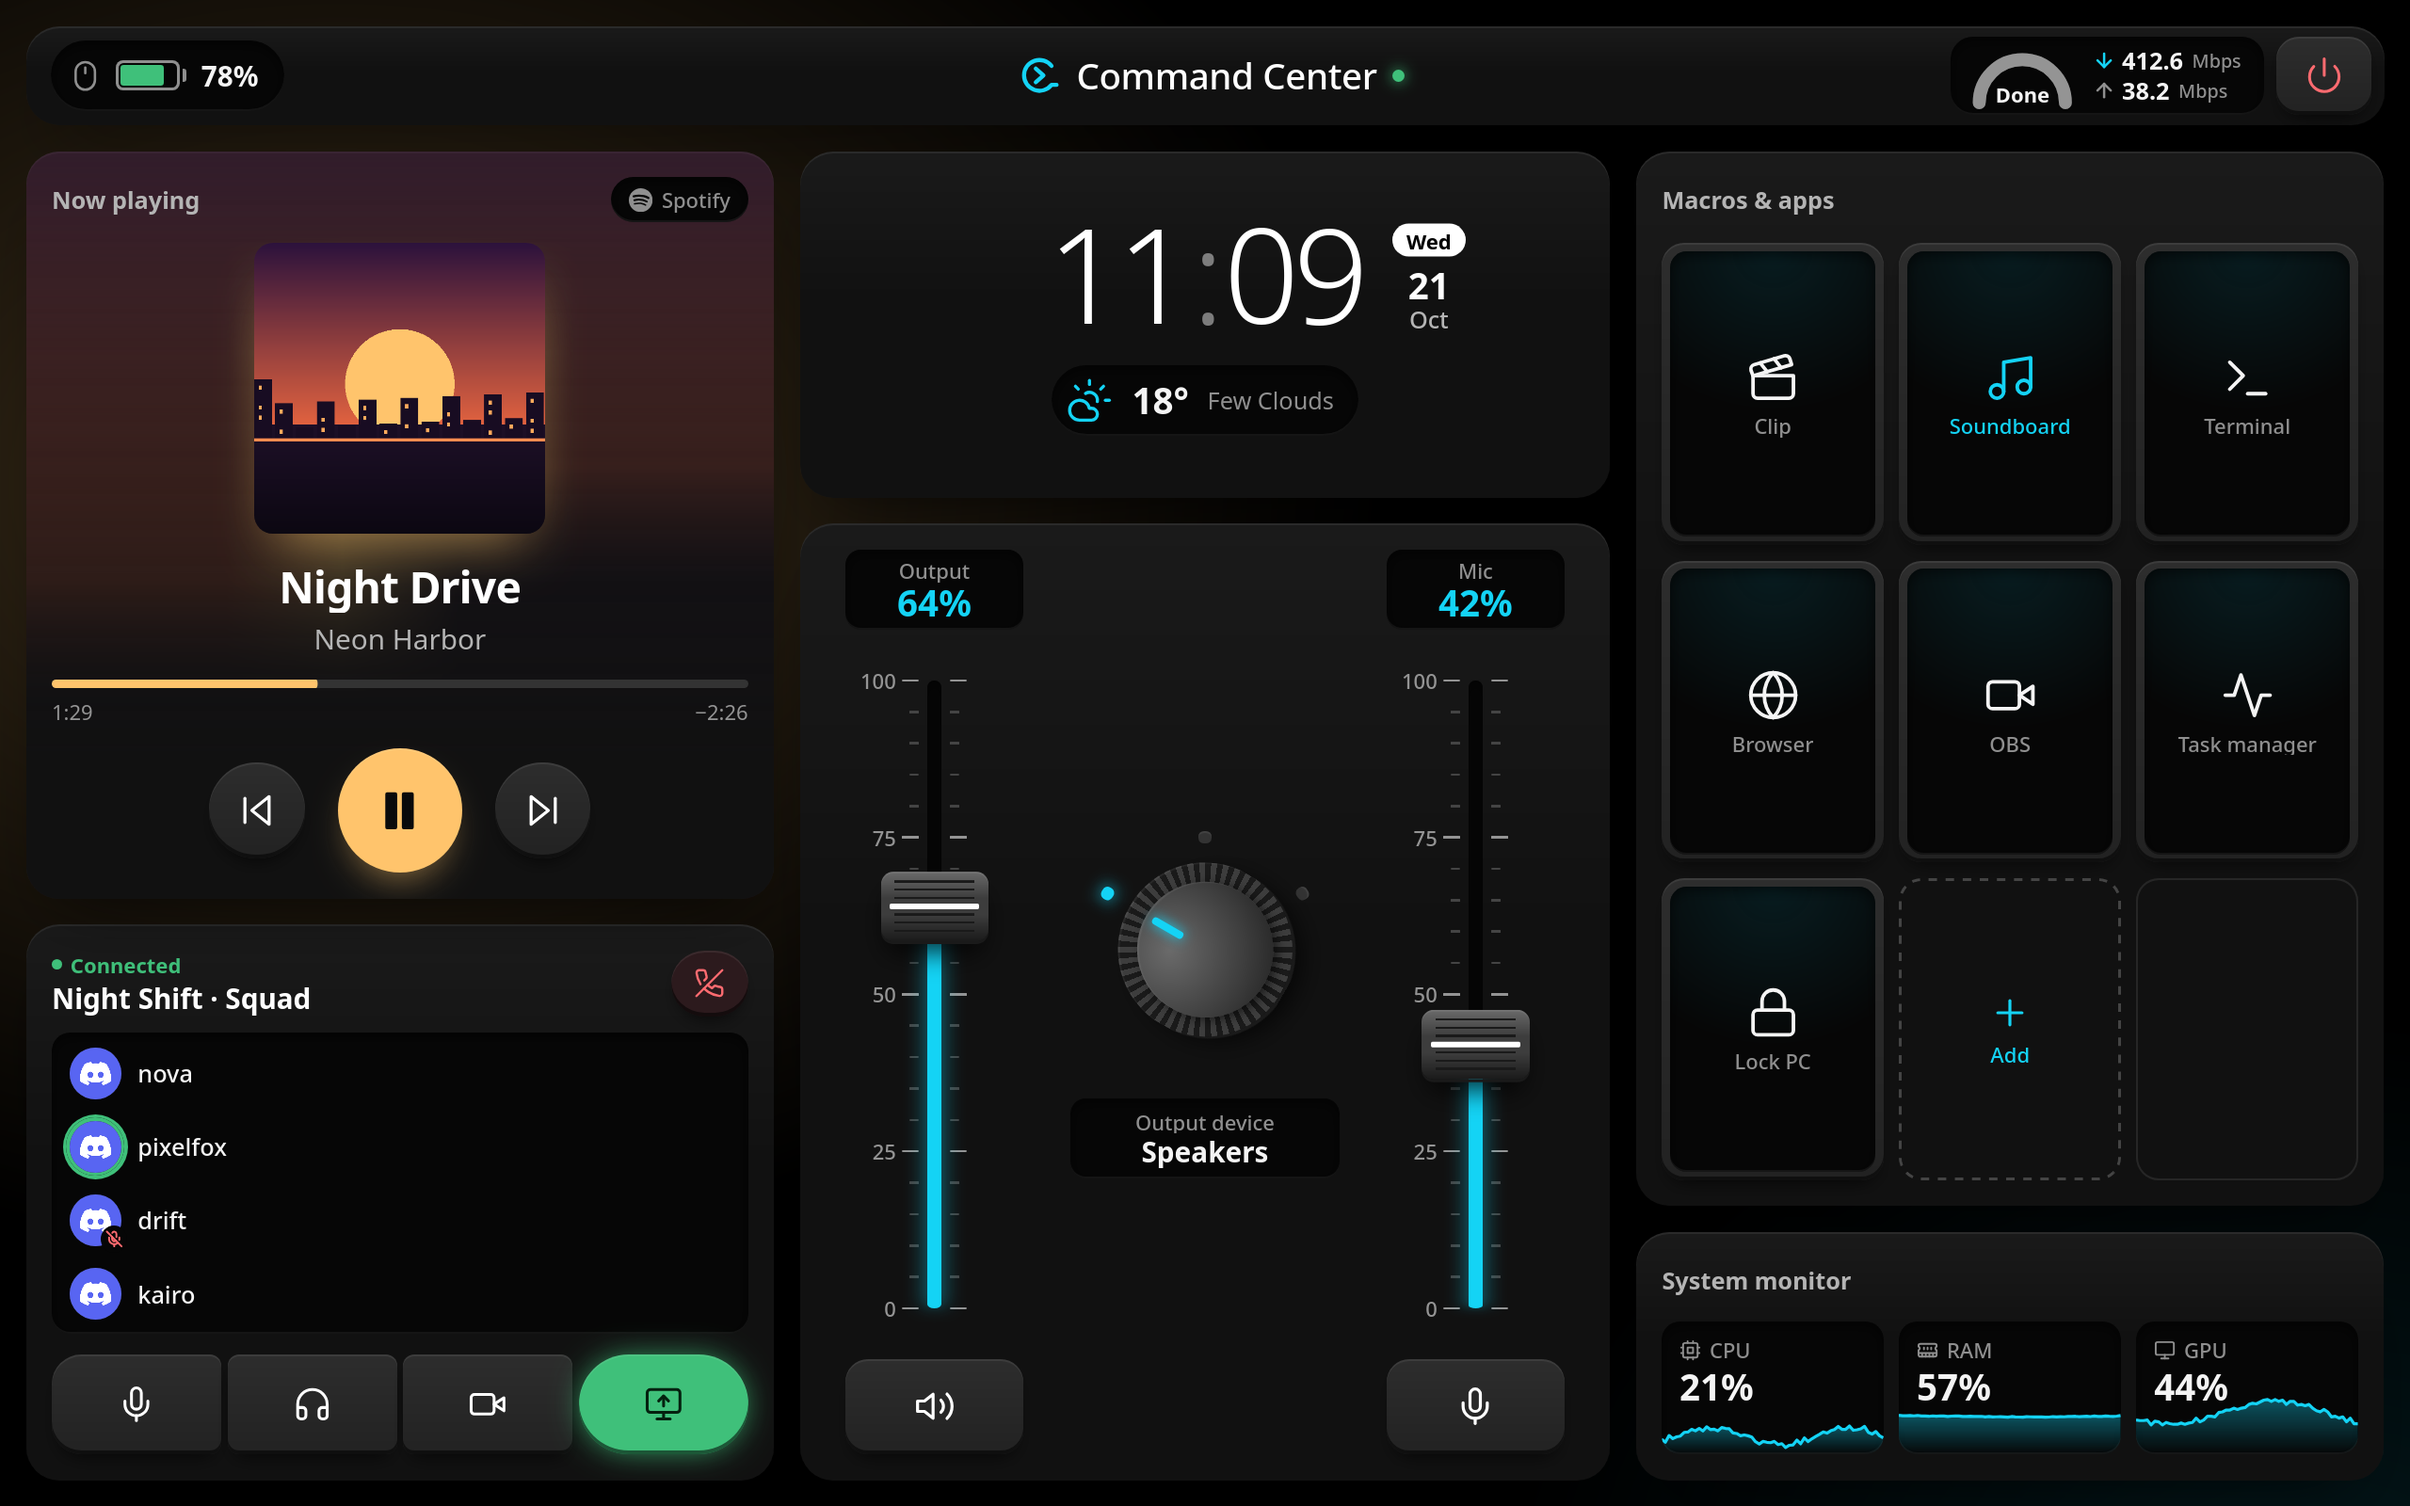
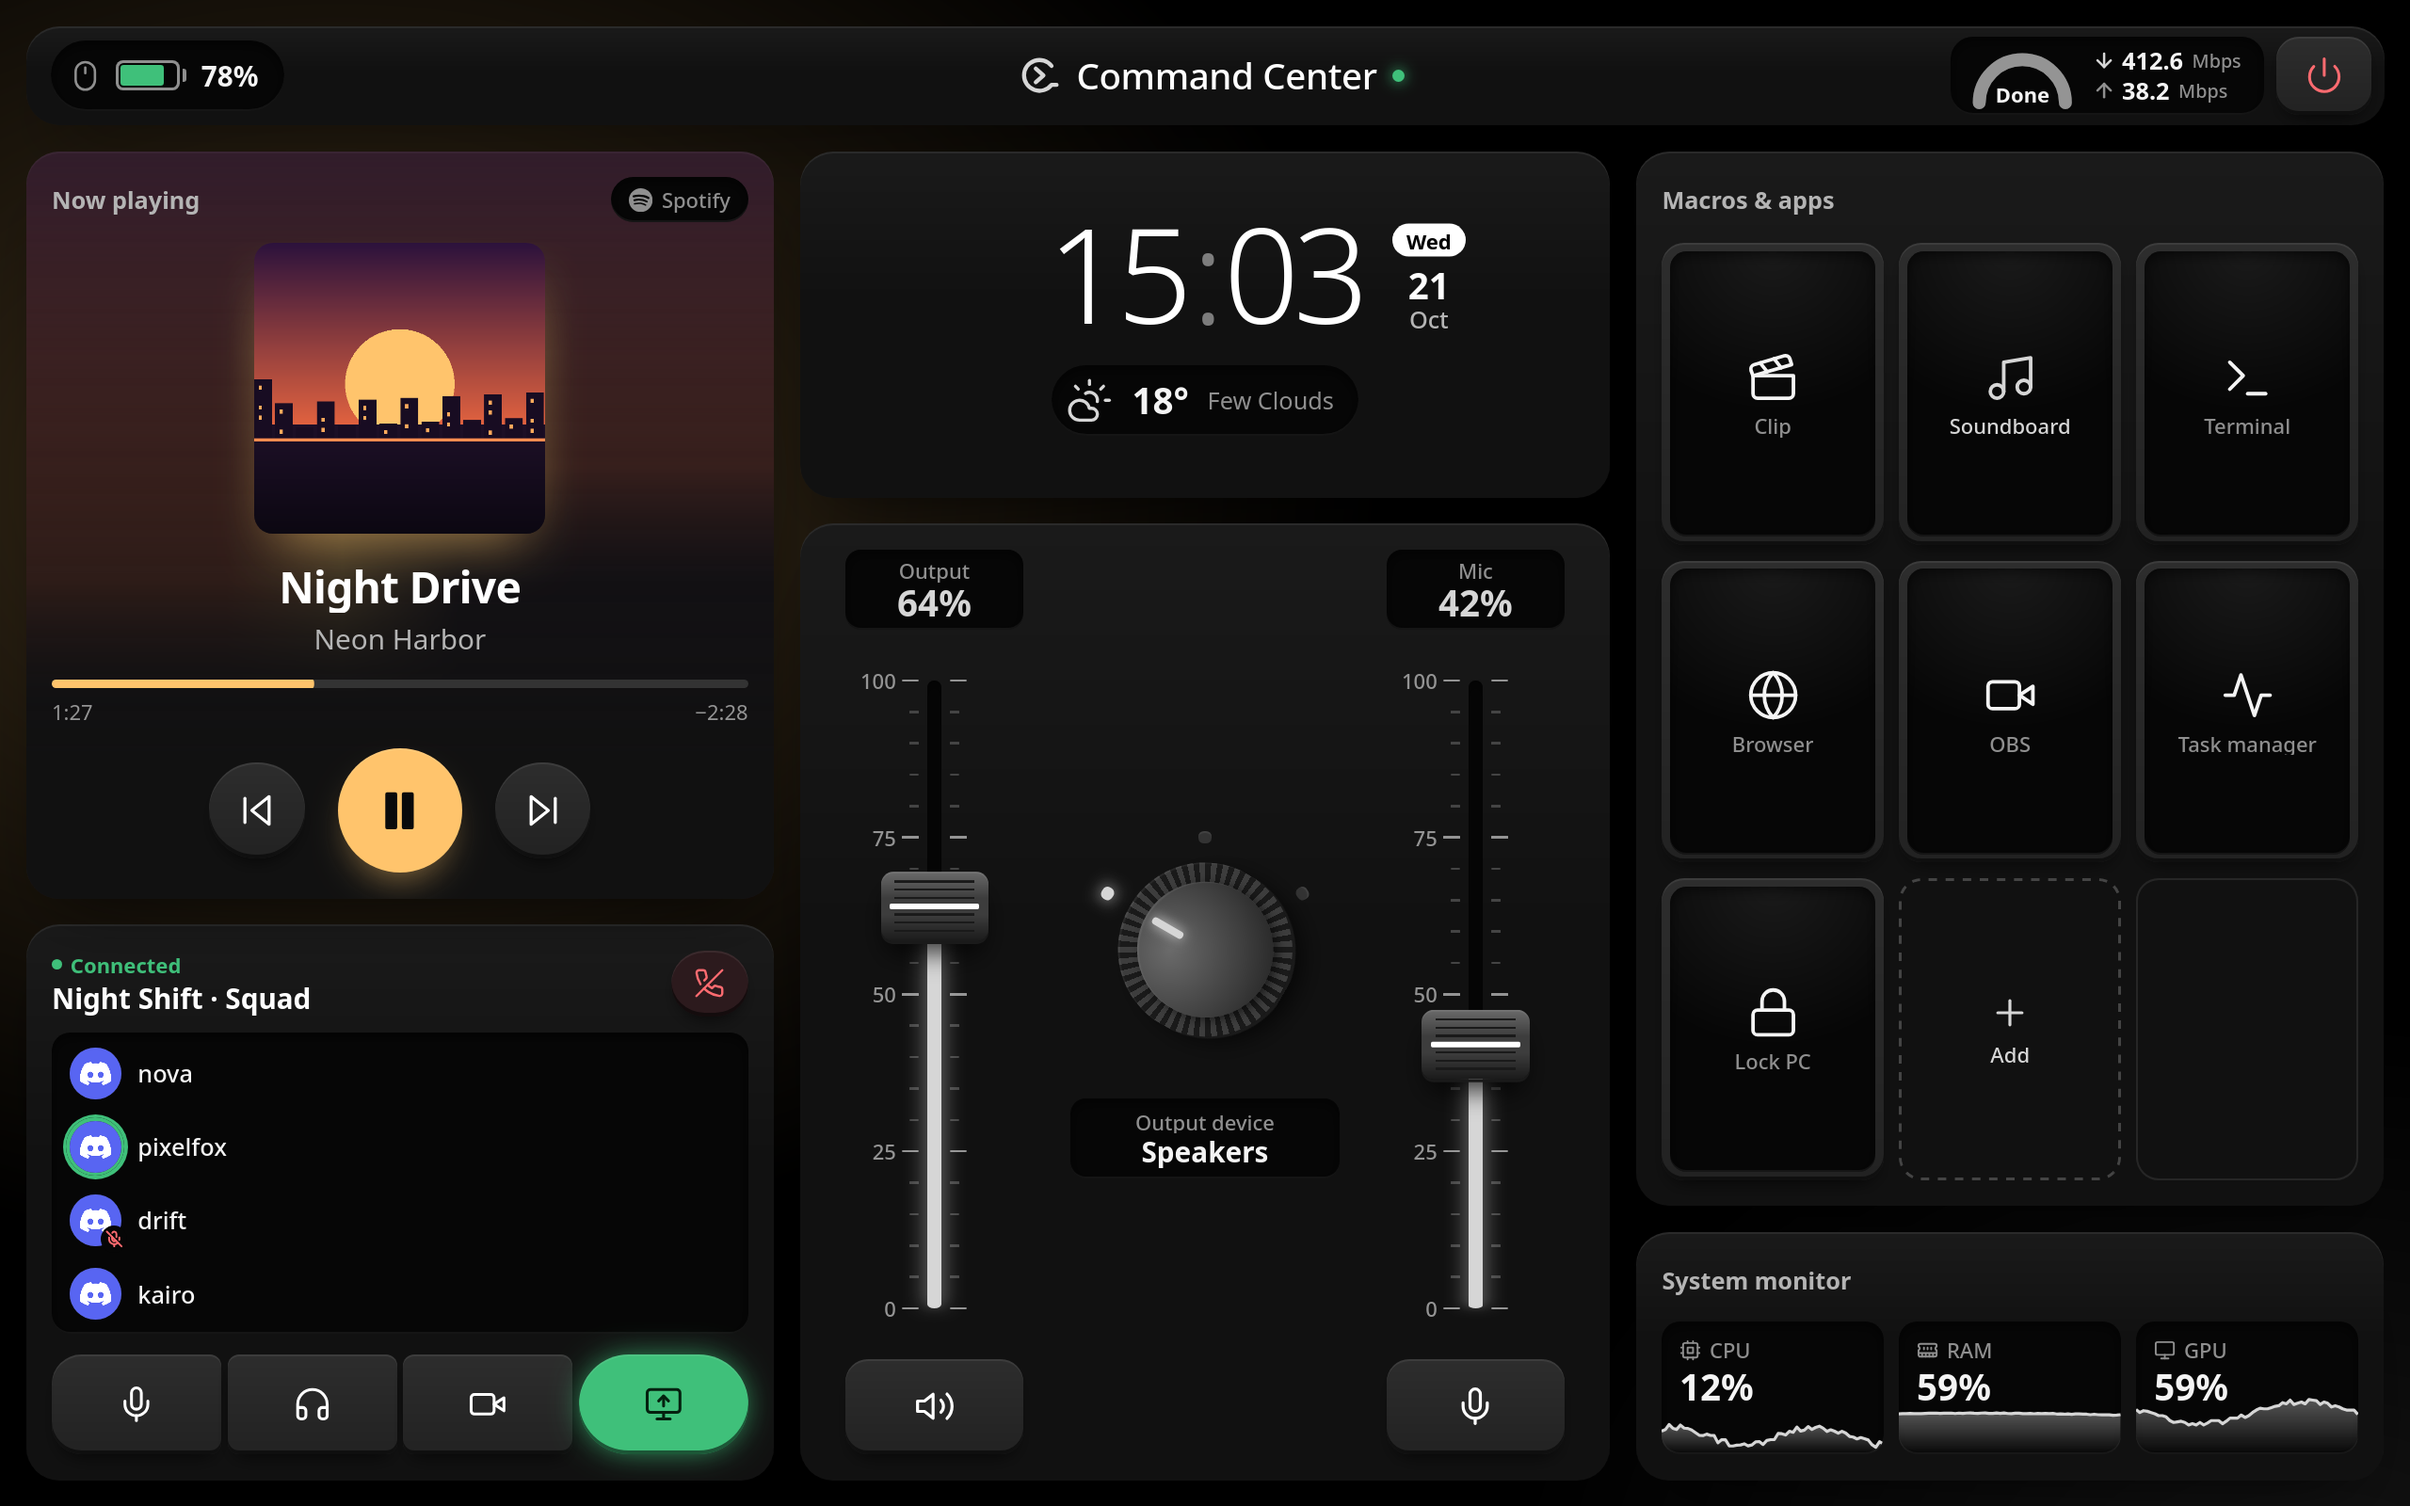
Release: v0.10.3

diff --git a/static/themes.js b/static/themes.js
@@ -65,7 +65,7 @@
         "id": "graphite",
         "name": "Graphite",
         "scheme": "dark",
-        "note": "True black hardware, brand cyan on the levels.",
+        "note": "True-black hardware with silver lights.",
         "tokens": {
           "ground": "#000000",
           "surface": "#111111",
@@ -80,9 +80,9 @@
           "text": "#ffffff",
           "text-2": "#b4b4b4",
           "text-3": "#949494",
-          "accent": "#14d3f5",
-          "accent-text": "#14d3f5",
-          "accent-ink": "#00222b",
+          "accent": "#d6d6d6",
+          "accent-text": "#d6d6d6",
+          "accent-ink": "#111111",
           "inverse": "#ffffff",
           "inverse-ink": "#000000",
           "positive": "#3fc07a",
@@ -95,11 +95,11 @@
           "well": "#060606",
           "well-ink": "#f4f4f4",
           "well-ink-2": "#8f8f8f",
-          "well-accent": "#14d3f5",
+          "well-accent": "#d6d6d6",
           "display": "#060606",
           "display-ink": "#f4f4f4",
           "display-ink-2": "#8f8f8f",
-          "display-accent": "#14d3f5",
+          "display-accent": "#d6d6d6",
           "cap-hi": "#6a6a6a",
           "cap": "#3d3d3d",
           "cap-lo": "#1a1a1a",
@@ -107,11 +107,11 @@
           "rim": "rgba(255, 255, 255, 0.07)",
           "edge": "rgba(0, 0, 0, 0.55)",
           "depth": "rgba(0, 0, 0, 0.8)",
-          "glow": "#14d3f51c",
+          "glow": "#ffffff14",
           "meter-gap": "rgba(0, 0, 0, 0.34)",
           "scrim": "rgba(0, 0, 0, 0.74)",
           "shadow": "0 1.5rem 4rem rgba(0, 0, 0, 0.6)",
-          "focus": "#14d3f5"
+          "focus": "#d6d6d6"
         }
       },
       {

diff --git a/docs/DESIGN.md b/docs/DESIGN.md
@@ -170,7 +170,7 @@ Always, on both tiers:
 
 | Preset | Why it exists |
 |---|---|
-| **Graphite** (default) | True-black hardware for OLED and night use; untinted greys, brand cyan on the levels. |
+| **Graphite** (default) | True-black hardware for OLED and night use, entirely in greys: the levels, LEDs and brand mark are lit silver, so the only colour on screen is status (mute, live, warnings) and the music. |
 | **Daylight** | A satin-white console with soft grey recesses and silver caps, all light, for a bright room. |
 | **Ember** | Warm walnut-black and amber: low blue light late at night. Warnings are pumpkin orange and mute a deep red, so neither is mistaken for the amber. |
 | **Phosphor** | A monitor's P1 green on the levels, with monospaced figures. Live states take a cooler sea green and warnings the amber of a P3 screen, so the green levels keep their own meaning. |
